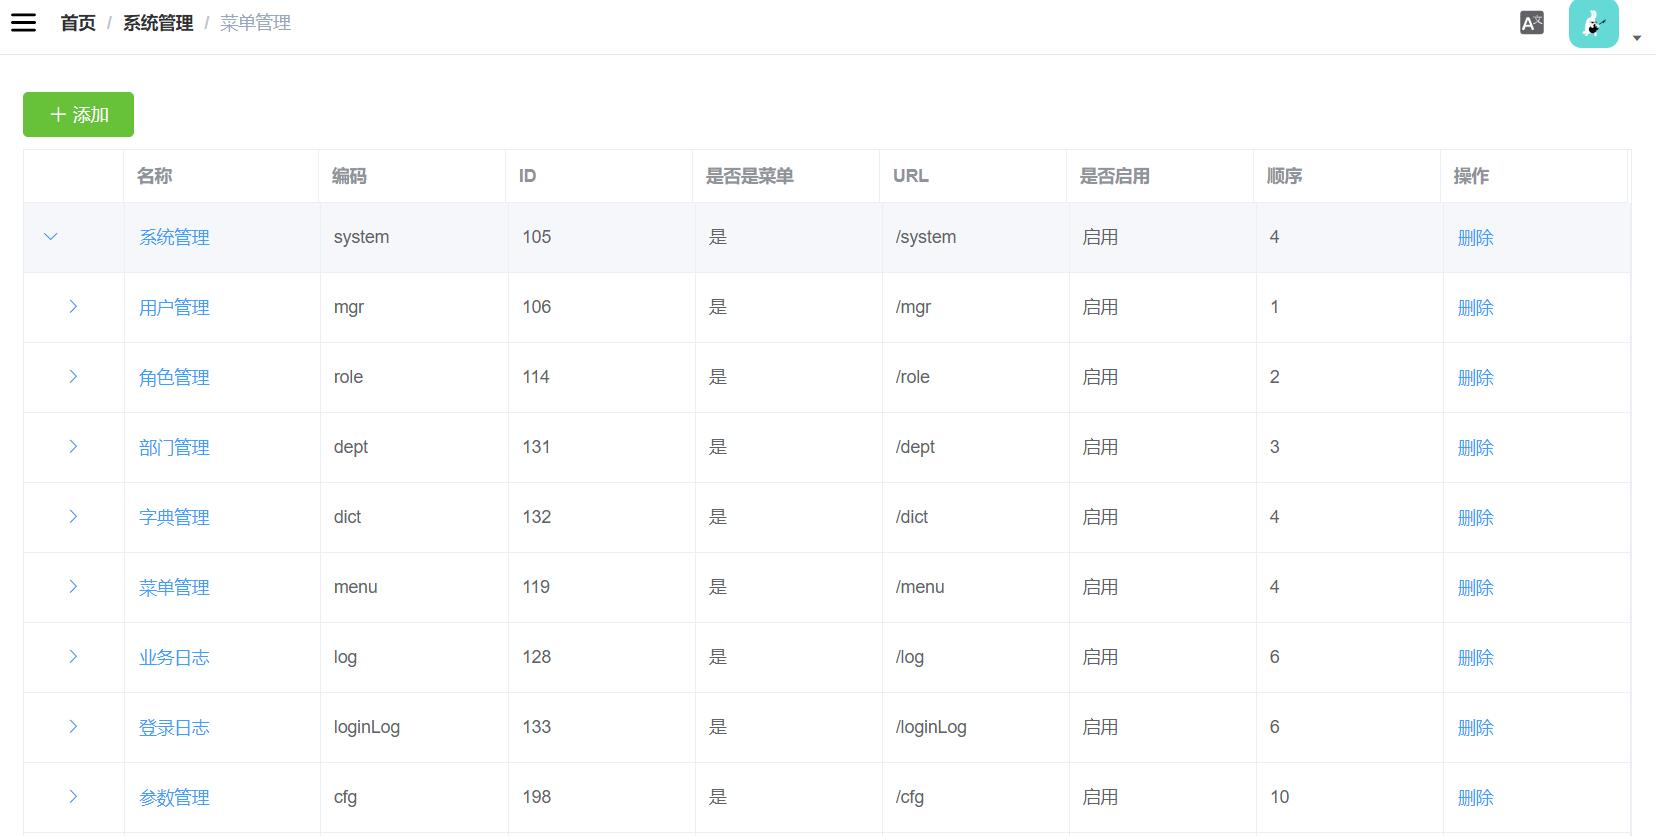
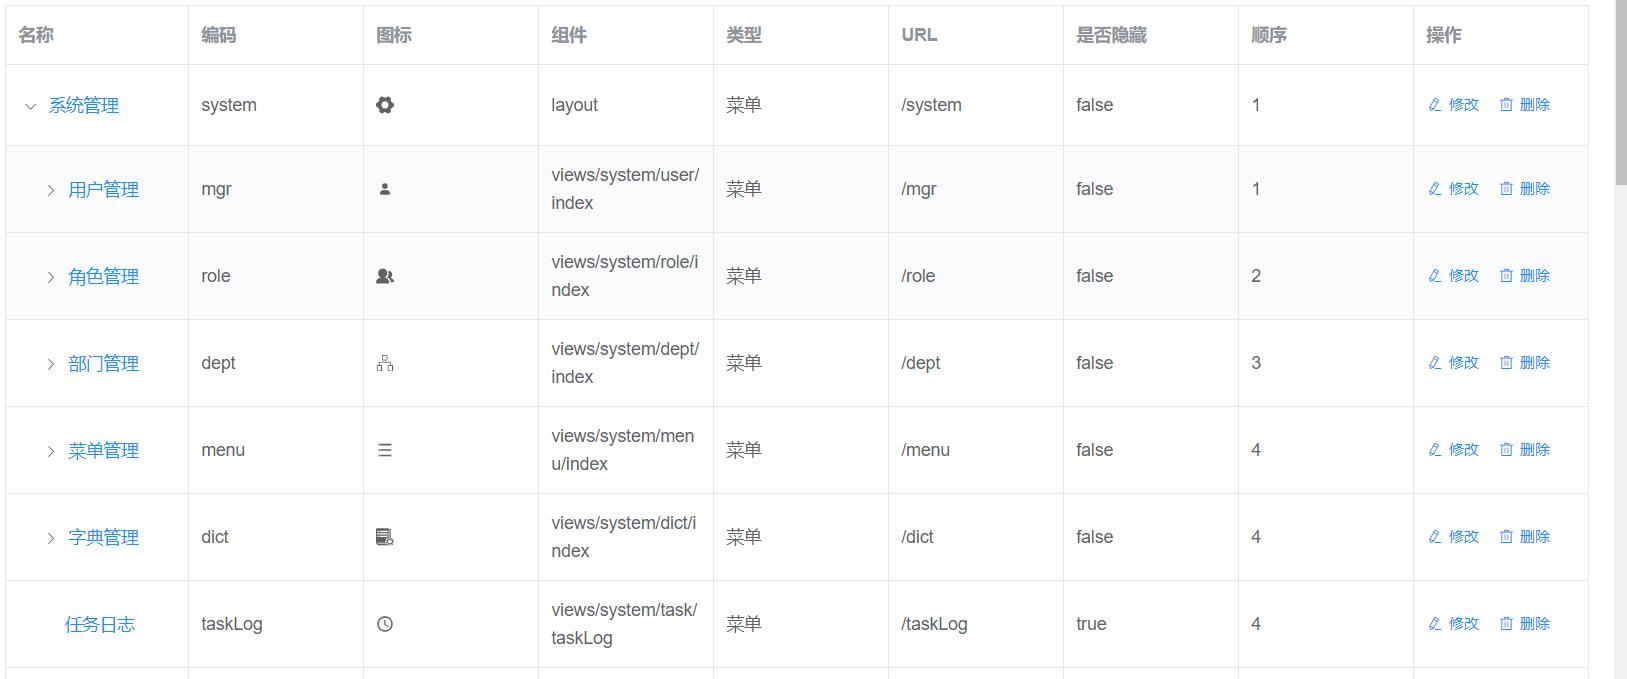
Add doc

diff --git a/flash-core/src/main/java/cn/enilu/flash/service/system/MenuService.java b/flash-core/src/main/java/cn/enilu/flash/service/system/MenuService.java
@@ -193,10 +193,10 @@ public class MenuService extends BaseService<Menu, Long, MenuRepository> {
                 menu.setName(String.valueOf(source[3]));
                 MenuMeta meta = new MenuMeta();
                 meta.setIcon(String.valueOf(source[1]));
-                //如果使用前端vue-i18n对菜单进行国际化，则title設置为code，且code需要与国际化资源文件中的key值一致
+                //如果使用前端vue-i18n对菜单进行国际化，则title設置为code，且code需要与国际化资源文件中route节点下的key值一致
                 meta.setTitle(String.valueOf(source[8]));
                 //如果不需要做国际化，则title直接设置后台管理配置的菜单标题即可
-//                meta.setTitle(String.valueOf(source[3]));
+                //meta.setTitle(String.valueOf(source[3]));
                 menu.setNum(Integer.valueOf(source[7].toString()));
                 menu.setParentId(Long.valueOf(source[2].toString()));
                 if(source[9]!=null) {

diff --git a/flash-api/src/main/java/cn/enilu/flash/api/controller/front/officialsite/OffcialSiteController.java b/flash-api/src/main/java/cn/enilu/flash/api/controller/front/officialsite/OffcialSiteController.java
@@ -37,8 +37,8 @@ public class OffcialSiteController extends BaseController {
         BannerVo banner = bannerService.queryIndexBanner();
         dataMap.put("banner", banner);
         List<News> newsList = new ArrayList<>();
-        List<cn.enilu.flash.bean.entity.cms.Article> articles = articleService.queryIndexNews();
-        for (cn.enilu.flash.bean.entity.cms.Article article : articles) {
+        List<Article> articles = articleService.queryIndexNews();
+        for (Article article : articles) {
             News news = new News();
             news.setDesc(article.getTitle());
             news.setUrl("/article?id=" + article.getId());

diff --git a/flash-api/src/main/java/cn/enilu/flash/api/controller/front/officialsite/NewsController.java b/flash-api/src/main/java/cn/enilu/flash/api/controller/front/officialsite/NewsController.java
@@ -37,7 +37,7 @@ public class NewsController extends BaseController {
         List<News> newsList = new ArrayList<>();
         Page<Article> articlePage = articleService.query(1, 10, ChannelEnum.NEWS.getId());
 
-        for (cn.enilu.flash.bean.entity.cms.Article article : articlePage.getRecords()) {
+        for (Article article : articlePage.getRecords()) {
             News news = new News();
             news.setDesc(article.getTitle());
             news.setUrl("/article?id=" + article.getId());

diff --git a/docs/guide/feature/menu.md b/docs/guide/feature/menu.md
@@ -9,15 +9,45 @@
 
 ## 左侧菜单维护
 - 菜单维护基本上采用了两级菜单形式：如上图所示：第一级菜单为“系统管理”，“系统管理”中包含了“用户管理”、“角色管理”等多个二级菜单。
-- 其中“系统管理”为虚拟菜单，点击“系统管理”并不会跳转到真实的页面而是展开其子菜单列表；所以虚拟菜单的请求地址应配置为“#”。
-- “系统管理”下的子菜单，例如“业务日志”需要配置请求地址，比如配置为“/log”,点击“业务日志”会跳转到业务日志列表页面。
-- 左侧菜单完全通过后台配置的菜单数据生成，因此配置要显示在左侧菜单树的菜单之前，先保证该菜单对应的页面已经开发好，否则配置好菜单自动生成路可能会失败导致页面显示异常。
+- 其中“系统管理”为虚拟菜单，点击“系统管理”并不会跳转到真实的页面而是展开其子菜单列表；所以虚拟菜单的组件属性应配置为“layout”。
+- “系统管理”下的子菜单，为二级菜单，二级菜单都为真实的菜单，每个菜单对应真实的页面，下面以“用户管理”为例说明菜单中各个属性的作用：
+  - **名称**：即菜单的名称，这里需要注意的是，默认情况下由于系统采用了国际化功能，因此菜单的名称并没有取自这里，而是根据src/lang/中的对应语言资源文件中“route”节点下的配置来展示，具体关联逻辑为，菜单的编号和配置文件进行关联。
+  - **菜单编号**：菜单编号有两个作用：
+    - 1.通过菜单编号和国际化资源文件中进行关联，实现菜单的多语言展示，例如用户管理的菜单编号是"mgr"，对应语言资源文件中的route.mgr的值的配置展示
+    - 2.后台权限控制是根据菜单编号进行匹配的，例如在UserController中的list方法有下面配置：其中Permission.USER的值为“mgr”
+      ```java
+      @RequestMapping(value = "/list", method = RequestMethod.GET)
+      @RequiresPermissions(value = {Permission.USER})
+      public Object list(@RequestParam(required = false) String account,
+                         @RequestParam(required = false) String name,
+                         @RequestParam(required = false) Long deptid,
+                         @RequestParam(required = false) String phone,
+                         @RequestParam(required = false) Integer status,
+                         @RequestParam(required = false) Integer sex
+      ) {
+          ...
+      }
+      ```
+  - **资源地址**：资源地址都以斜杠“/”开头，资源地址也有两个用途：
+    - 1.资源地址为浏览器中显示的地址，比如用户管理的资源地址为"/mgr",则演示环境用户管理的地址为"http://flash-admin.enilu.cn/#/mgr"
+    - 2.资源地址作为前端权限控制的资源表示，比如用户管理下面有个三级菜单配置"添加用户"，资源地址为："/mgr/add",页面使用资源地址作为权限标识对"添加用户"按钮进行权限控制，控制代码如下：
+    ```html
+    <el-button type="success" size="mini" icon="el-icon-plus" @click.native="add" v-permission="['/mgr/add']">
+      {{$t('button.add') }}
+    </el-button>
+    ```
+      关于v-permission的具体用法在后面权限管理章节有具体描述。
+  - 菜单类型：菜单类型包括“菜单”和“按钮”两类，本系统一级菜单和二级菜单的菜单类型基本都为“菜单”，比如系统管理，用户管理，角色管理，三级菜单的菜单类型都为“按钮”，比如添加用户，删除用户，分配角色等。
+  - **图标**:菜单图标，只针对一级和二级菜单配置的图标才会生效，对按钮配置的图标不起作用
+  - **排序**:菜单顺序，同样，只对菜单生效，不对按钮生效
+  - **组件**:组件只对菜单生效，配置组件意味着当前菜单对应的vue界面；当然如果是虚拟菜单（基本上都是一级菜单）组件必须固定配置为layout，二级菜单配置为具体的页面组件路径，比如用户管理的组件配置为：views/system/user/index 组件配置必须为views开头，这也意味着开发的页面都必须放到views目录下。
+- 左侧菜单完全通过后台配置的菜单数据生成，因此配置要显示在左侧菜单树的菜单之前，先保证该菜单对应的页面已经开发好，否则配置好菜单自动生成的时候可能会失败导致页面显示异常。
 
 ## 顶级菜单
 - 左侧菜单默认采用二级菜单的模式，一级菜单为一个菜单目录，二级菜单为真实的菜单，菜单管理中配置的时候可以配置第三级，第三级一般配置为页面按钮，用于页面按钮的权限控制。
 - 如果需要将一个菜单置为顶级菜单，也就是第一级就可以点击到具体的页面，则可以通过下面步骤进行配置
-    - 首先一个顶级菜单依然需要配置为两个层级的菜单
-    - 保证一个顶级菜单下面只有一个二级菜单，则生成左侧菜单树的时候会自动将该一级菜单下的二级菜单展示为一级菜单。如果觉得有点绕，请看下图示例：
+    - 首先配置一个一级菜单
+    - 保证上面的一级菜单下面只有一个二级菜单，则生成左侧菜单树的时候会自动将该一级菜单下的二级菜单展示为一级菜单。请看下图示例：
     - 菜单管理中做如下配置：
     ![menu](./img/topmenu1.png)
     - 实际效果如下：
@@ -26,4 +56,15 @@
 **注意**
 - 本项目采用i18n国际化，左侧菜单的名称并没有使用上面配置的菜单名称，而是根据上面配置的菜单编码对应的国际化资源文件中的具体值：flash-vue-admin/src/lang/zh.js（en.js).
 - 如果不想使用国际化，想直接从数据库中获取菜单名称作为左侧菜单树的名称，参考MenuService类中的transferRouteMenu 方法里的相关注释说明。
-
+  ```java
+  private List<RouterMenu> transferRouteMenu(List menus) {
+              ***
+              ***
+              //如果使用前端vue-i18n对菜单进行国际化，则title設置为code，且code需要与国际化资源文件中route节点下的key值一致
+              meta.setTitle(String.valueOf(source[8]));
+              //如果不需要做国际化，则title直接设置后台管理配置的菜单标题即可
+              //meta.setTitle(String.valueOf(source[3]));
+              ***
+              ***
+  }
+  ```
